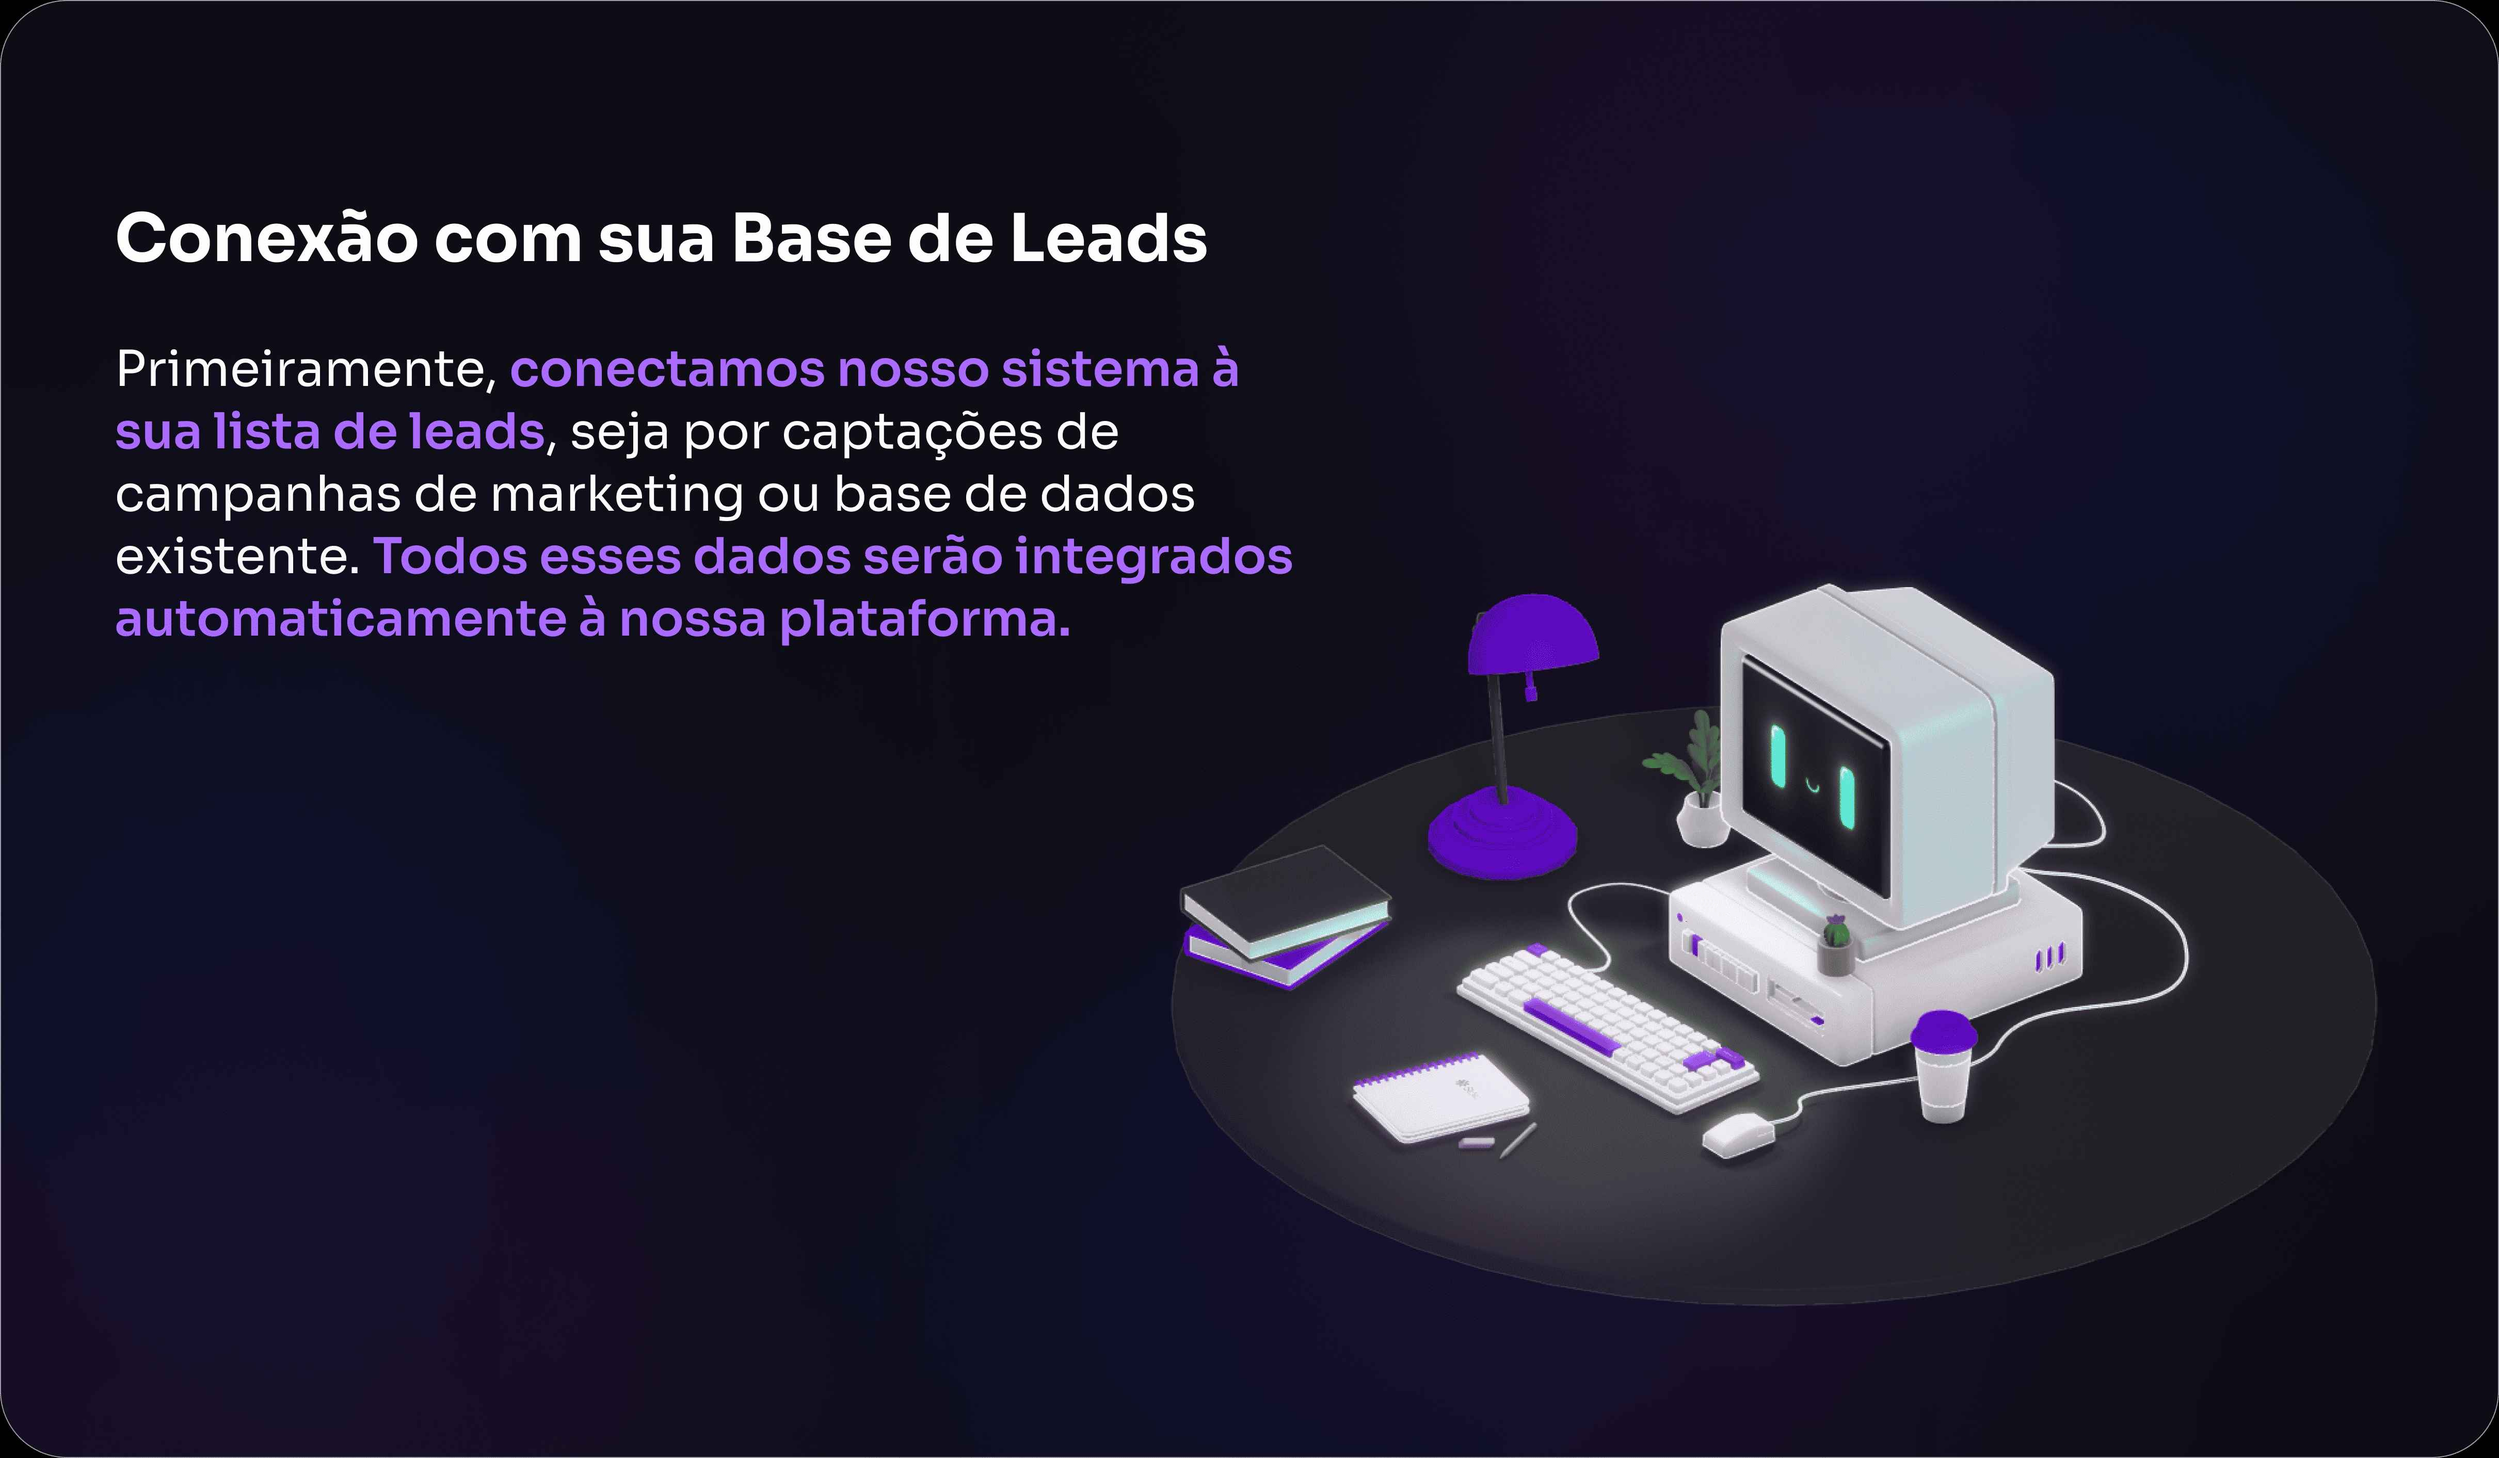
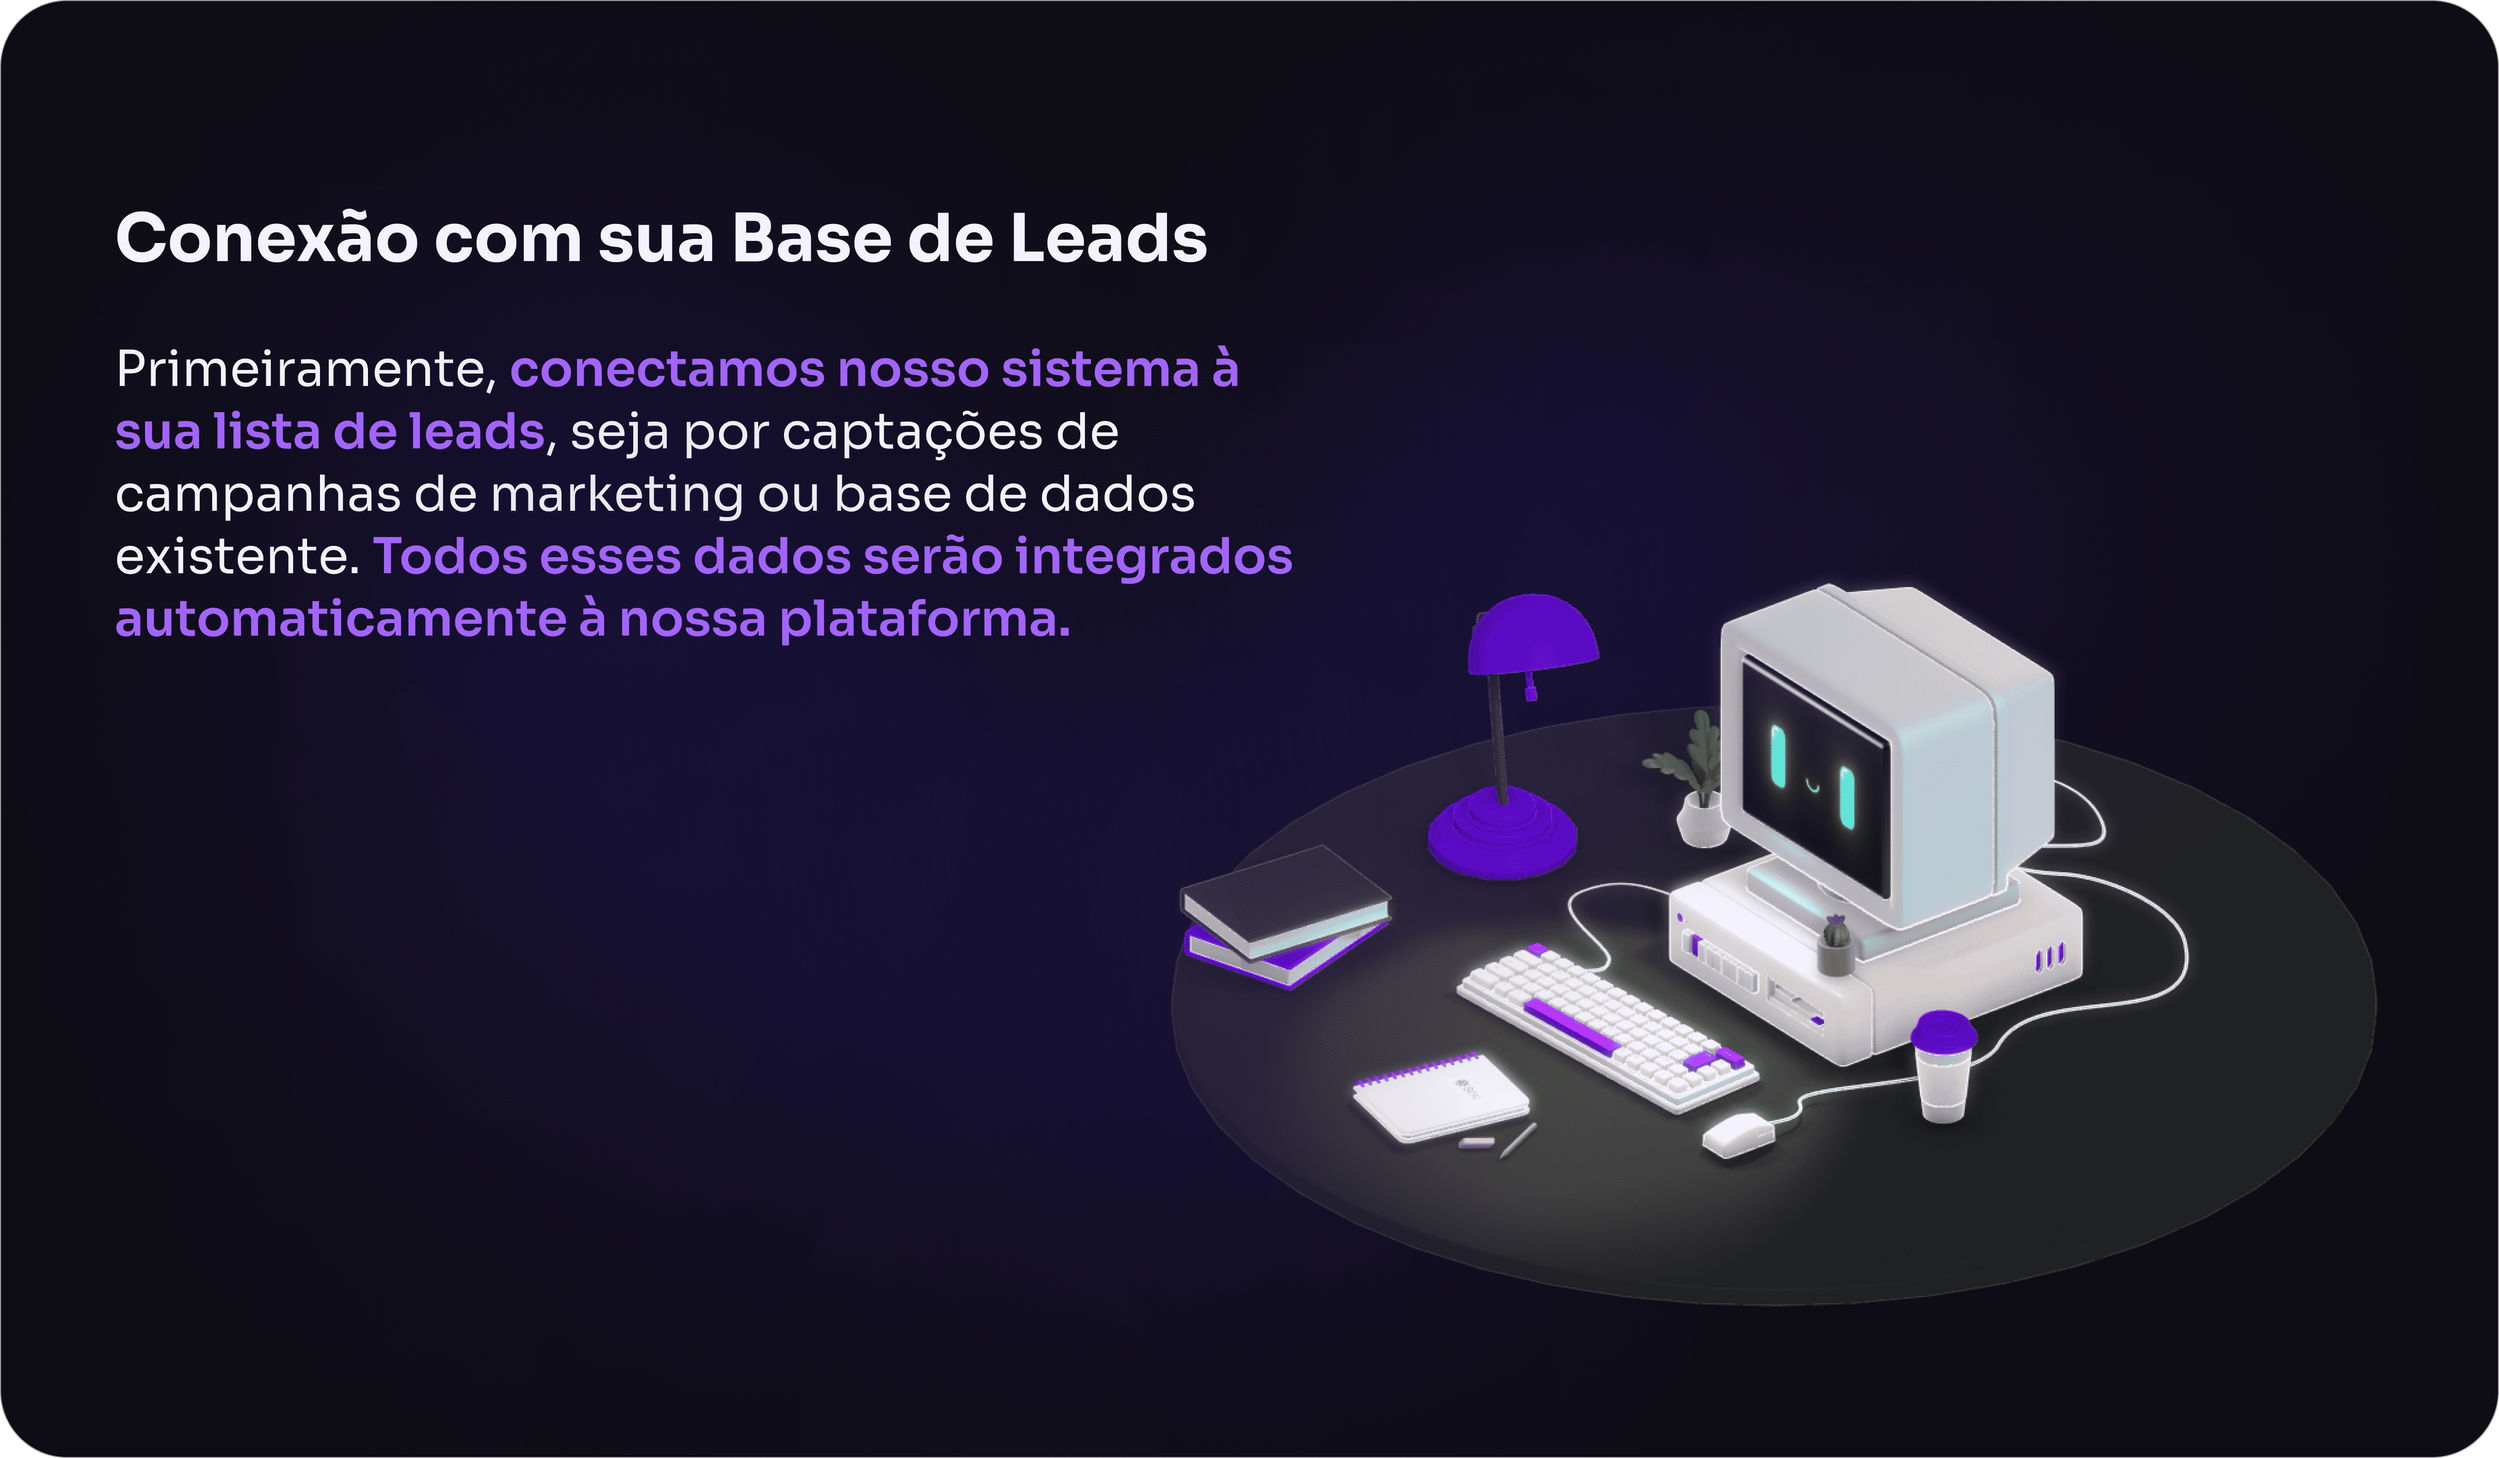
update

diff --git a/src/sections/Pricing.jsx b/src/sections/Pricing.jsx
@@ -62,34 +62,49 @@ const Pricing = () => {
                 />
 
                 <div className="relative">
-                    <div className="flex gap-[1rem] max-lg:flex-wrap">
+                    <div className="grid grid-cols-1 md:grid-cols-2 lg:grid-cols-3 gap-[1rem] lg:gap-[2rem]">
                         {pricing.map((item, i) => (
-                            <div key={i} className="w-[19rem] max-lg:w-full h-full px-6 bg-n-8 border border-n-6 rounded-[2rem] lg:w-auto even:py-14 odd:py-8 odd:my-4 [&>h4]:first:text-color-2 [&>h4]:even:text-color-1 [&>h4]:last:text-color-3">
+                            <div 
+                                key={i} 
+                                className={`
+                                    w-full px-6 bg-n-8 border border-n-6 rounded-[2rem] 
+                                    ${i === 1 ? 'md:col-span-2 lg:col-span-1 py-14' : 'py-8'} 
+                                    lg:even:py-14 lg:odd:py-8 lg:odd:my-4
+                                    [&>h4]:first:text-color-2 [&>h4]:even:text-color-1 [&>h4]:last:text-color-3
+                                    transform transition-transform duration-300 hover:scale-105
+                                `}
+                            >
                                 <h4 className="h4 mb-4">{item.title}</h4>
 
-                                <p className="body-2 min-h-[4rem] mb-3 text-white/50">{item.description}</p>
+                                <p className="body-2 min-h-[4rem] mb-3 text-n-4">{item.description}</p>
 
                                 <div className="flex items-center h-[5.5rem] mb-6">
                                     {item.price ? (
                                         <>
-                                            <div className="body-2 text-n-4">A partir de</div>
+                                            <div className="body-2 text-n-4 whitespace-nowrap">A partir de</div>
                                             <div className="h3 ml-2">R$</div>
-                                            <div className="text-[5.5rem] leading-none font-bold">{item.price}</div>
-                                            <div className="body-2 text-n-4 ml-2">/mês</div>
+                                            <div className="text-[3rem] md:text-[4rem] lg:text-[5.5rem] leading-none font-bold">{item.price}</div>
+                                            <div className="body-2 text-n-4 ml-2 whitespace-nowrap">/mês</div>
                                         </>
                                     ) : (
                                         <div className="body-2 text-n-4">Personalizado para sua empresa</div>
                                     )}
                                 </div>
 
-                                <Button className="w-full mb-6" href={item.price ? "/pricing" : "mailto:contato@perseu.ai"} white={item.price}>
+                                <Button 
+                                    className="w-full mb-6" 
+                                    href={item.price 
+                                        ? `https://wa.me/5533984669979?text=Olá!%20Gostaria%20de%20saber%20mais%20sobre%20o%20plano%20${item.title}%20da%20Perseu.AI` 
+                                        : "https://wa.me/5533984669979?text=Olá!%20Gostaria%20de%20saber%20mais%20sobre%20os%20planos%20empresariais%20da%20Perseu.AI"}
+                                    white={item.price}
+                                >
                                     {item.price ? "Começar agora" : "Fale conosco"}
                                 </Button>
 
-                                <ul>
+                                <ul className="space-y-2">
                                     {item.features.map((feature, index) => (
                                         <li key={index} className="flex items-start py-5 border-t border-n-6">
-                                            <img src={check} width={24} height={24} alt="" />
+                                            <img src={check} width={24} height={24} alt="" className="flex-shrink-0 mt-1" />
                                             <p className="body-2 ml-4">{feature}</p>
                                         </li>
                                     ))}
@@ -107,7 +122,7 @@ const Pricing = () => {
                 </div>
 
                 <div className="flex justify-center mt-10">
-                    <a className="text-xs font-code font-bold tracking-wider uppercase border-b" href="#pricing">
+                    <a className="text-xs font-code font-bold tracking-wider uppercase border-b hover:text-color-1 transition-colors" href="#pricing">
                         Ver detalhes completos
                     </a>
                 </div>

diff --git a/src/sections/Collaboration.jsx b/src/sections/Collaboration.jsx
@@ -1,4 +1,4 @@
-import { openai, check, curve1, curve2, discord, whatsapp, framer, notion, photoshop, protopie, raindrop, slack } from "../assets";
+import { check, curve1, curve2, discord, whatsapp, framer, notion, photoshop, protopie, raindrop, slack, justlogo } from "../assets";
 import Button from "../components/Button";
 import Section from "../components/Section";
 
@@ -100,7 +100,13 @@ const Collaboration = () => {
                         <div className="flex w-[15rem] md:w-60 aspect-square m-auto border border-n-6 rounded-full">
                             <div className="w-[5rem] md:w-[6rem] aspect-square m-auto p-[0.2rem] bg-conic-gradient rounded-full">
                                 <div className="flex items-center justify-center w-full h-full bg-n-8 rounded-full">
-                                    <img src={openai} width={48} height={48} alt="OpenAI" className="w-10 h-10 md:w-12 md:h-12" />
+                                    <img 
+                                        src={justlogo} 
+                                        width={48} 
+                                        height={48} 
+                                        alt="PerseuAI" 
+                                        className="w-8 h-8 md:w-10 md:h-10 object-contain"
+                                    />
                                 </div>
                             </div>
                         </div>

diff --git a/src/assets/index.js b/src/assets/index.js
@@ -5,6 +5,7 @@ export { default as heroBackground } from './hero/hero-background.jpg';
 export { default as nexbotRobot } from './hero/nexbot-robot-character-concept.mp4';
 
 // Slides Section
+export { default as slide0 } from './slides/slide0.png';
 export { default as slide1 } from './slides/slide1.png';
 export { default as slide2 } from './slides/slide2.png';
 export { default as slide3 } from './slides/slide3.png';
@@ -76,6 +77,7 @@ export { default as twitter } from './socials/twitter.svg';
 
 // General Imports
 export { default as openai } from './openai.png';
+export { default as justlogo } from './justlogo.png';
 export { default as check } from './check.svg';
 export { default as check2 } from './check-02.svg';
 export { default as loading1 } from './loading-01.svg';

diff --git a/src/sections/Hero.jsx b/src/sections/Hero.jsx
@@ -1,5 +1,5 @@
 import { curve, file02, heroBackground, homeSmile, loading, plusSquare, robot, searchMd, yourlogo, nexbotRobot, sunset, voxuy, mailchamp, leadlovers } from "../assets";
-import { slide1, slide2, slide3, slide4 } from "../assets";
+import { slide0, slide1, slide2, slide3, slide4 } from "../assets";
 import Button from "../components/Button";
 import Section from "../components/Section";
 import { MouseParallax, ScrollParallax } from "react-just-parallax";
@@ -60,6 +60,7 @@ const loadingIconStyle = {
 };
 
 const slides = [
+    { image: slide0, alt: "Slide 0" },
     { image: slide1, alt: "Slide 1" },
     { image: slide2, alt: "Slide 2" },
     { image: slide3, alt: "Slide 3" },
